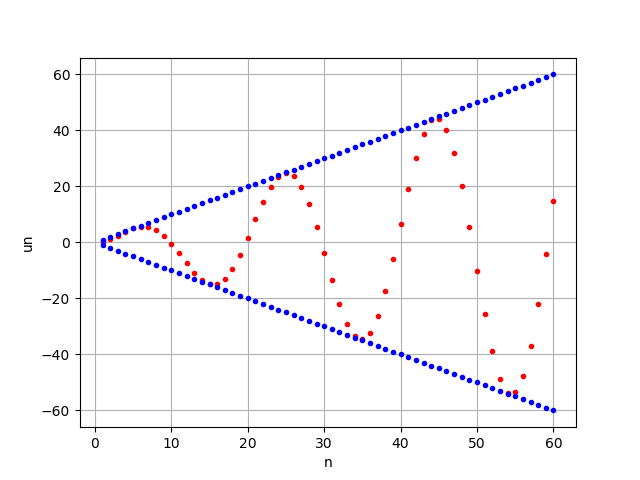
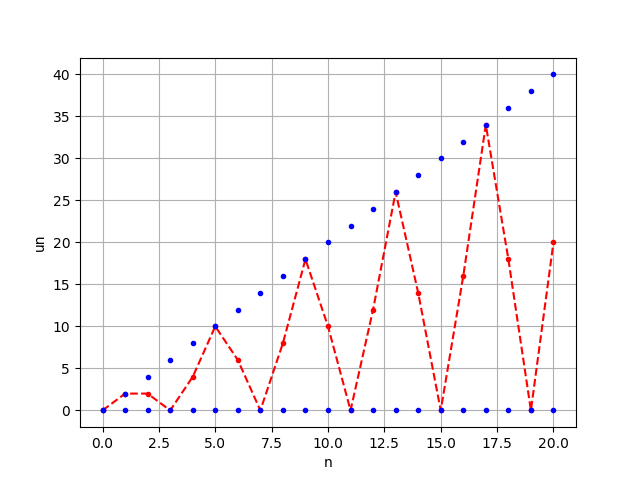
update

diff --git a/docs-seances-TS/seance3.tex b/docs-seances-TS/seance3.tex
@@ -7,6 +7,7 @@
 \usepackage{fontspec}
 \usepackage{titling}
 \usepackage{float}
+\usepackage{multicol}
 \usepackage{listings}
 \usepackage{graphicx}
 \usepackage{xcolor}
@@ -65,6 +66,15 @@ topline=false,
 rightline=false,
 bottomline=false]{exem}{Exemple}
 
+\theoremstyle{theorem}
+\newmdtheoremenv[%
+backgroundcolor=green!10,
+linecolor=green!60!black,
+linewidth=2pt,
+topline=false,
+rightline=false,
+bottomline=false]{prop}{Propriété}
+
 
 \pretitle{\begin{center}\LARGE
 	\hrulefill\newline}
@@ -104,7 +114,81 @@ Le cas échéant, on dira que $(u_n)$ converge vers $\ell$ (quand $n$ tend vers 
 \]
 
 On omettra souvent la mention que $n$ tend vers l'infini, sans ambigüité.
+
+Dans le cas contraire, on dira que $u$ \emph{diverge}.
 \end{defn}
+
+\begin{figure}
+	\centering
+	\includegraphics[width=0.85\textwidth]{resources/convergence.pdf}
+	\caption{Un exemple de suite convergente.}
+\end{figure}
+
+\begin{exer}
+Les suites suivantes convergent-elles ?
+\begin{multicols}{2}
+\begin{itemize}
+	\item $u_n = \dfrac1n +1$
+	\item $u_n = \sin\left(\dfrac{n\pi}{2}\right) $
+	\item $u_n = \dfrac 1n\sin\left(\dfrac 1n\right)$
+	\item $u_n = \begin{cases}
+	1 & \text{si }\sqrt n\in\NN\\
+	0 & \text{sinon}
+	\end{cases}$
+\end{itemize}
+\end{multicols}
+\end{exer}
+
+\begin{defn}[Divergence vers l'infini]
+Soit $(u_n)$ une suite de nombres réels. On dit que $u$ \emph{tend vers $+\infty$} si pour tout $A\in\RR$, il existe $n_0\in\NN$ tel que
+\[
+\forall n\geq n_0\quad u_n \geq A
+\]
+ou, autrement dit, pour toute borne $A$ que l'on peut se fixer, tous les termes de la suite après $n_0$ dépassent $A$.
+\end{defn}
+
+\begin{exer}
+Écrire une définition tendre vers $-\infty$.
+\end{exer}
+
+On remarquera qu'une suite qui tend vers l'infini ne converge pas.
+
+\begin{exer}
+Les suites suivantes tendent-elles vers $\pm\infty$ ?
+\begin{itemize}
+	\item $u_n = n\frac\pi 2$
+	\item $u_n = n\sin\left(n\frac\pi2\right)$
+	\item $u_n = n\left(2+\sin\left(n\dfrac\pi2\right)\right)$
+\end{itemize}
+\end{exer}
+
+\begin{defn}
+	Une suite $(u_n)$ est dite \emph{bornée} s'il existe un réel $B > 0$ tel que
+	\[
+	\forall n\in\NN\quad |u_n|\leq B
+	\]
+\end{defn}
+
+\begin{prop}
+Soient $u$ et $v$ deux suites de nombres réels. On suppose que $u$ est bornée et que $v$ tend vers 0. Alors:
+\[
+u_nv_n \xrightarrow[n\to\infty]{}0.
+\]
+\end{prop}
+
+\begin{exer}[Formes indéterminées]
+On se propose d'étudier la convergence de suites définies par des fractions dont les numérateurs et dénominateurs divergent.
+
+Tout d'abord,
+\[
+\dfrac{5n^2 + 4n - 5}{3n^2+2n}
+\]
+
+Ensuite,
+\[
+\frac{5\sqrt n + 4}{6n + 2\sqrt n}\]
+
+\end{exer}
 
 \begin{exer}[Une approximation de la racine carrée de 2]
 	On considère la suite de nombres réels $(u_n)$ de premier terme un entier $u_0\geq 2$, vérifiant la relation de récurrence \[

diff --git a/docs-seances-TS/resources/convergence.py b/docs-seances-TS/resources/convergence.py
@@ -3,9 +3,12 @@ import matplotlib.pyplot as plt
 from matplotlib.lines import Line2D
 import sys
 
+# Suite u_n
 def u(n):
-    return n*np.sin(n/np.pi)
+    return n*(np.sin(n*np.pi/2)+1)
 
+
+# Fonction pour afficher un graphe de la suite entre les entiers a et N
 def graphe(a,N):
     res = []
     abscisses = list(range(a,N+1))
@@ -15,9 +18,9 @@ def graphe(a,N):
     fig = plt.figure()
     ax = plt.subplot(111)
     ax.grid(True)
-    ax.plot(abscisses,res, 'r.')
-    ax.plot(abscisses,-np.array(abscisses),'b.')
-    ax.plot(abscisses,np.array(abscisses),'b.')
+    ax.plot(abscisses,res, 'r.--')
+    ax.plot(abscisses,2*np.array(abscisses),'b.')
+    ax.plot(abscisses,0*np.array(abscisses),'b.')
 
     ax.set_xlabel("n")
     ax.set_ylabel("un")
